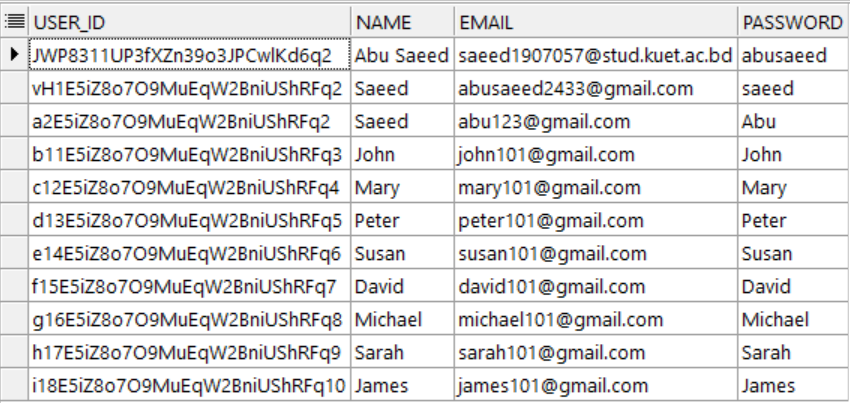
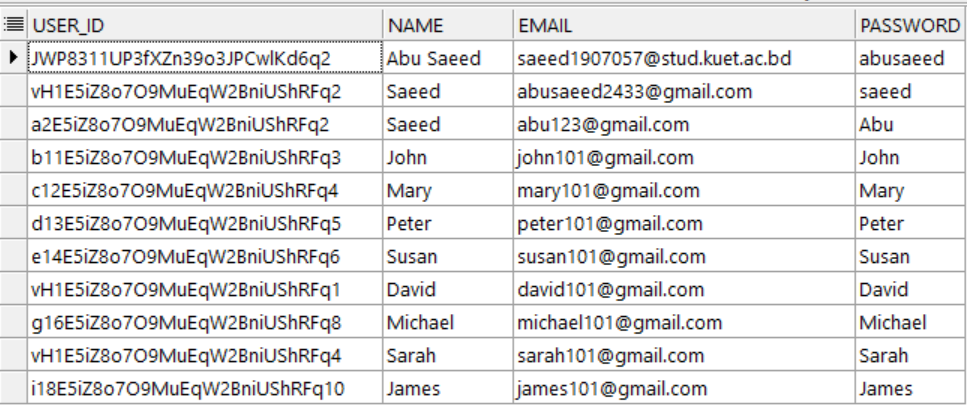
Data updated

diff --git a/README.md b/README.md
@@ -191,10 +191,10 @@ create table notification(
 
     insert into user_table values('d13E5iZ8o7O9MuEqW2BniUShRFq5','Peter','peter101@gmail.com','Peter');
     insert into user_table values('e14E5iZ8o7O9MuEqW2BniUShRFq6','Susan','susan101@gmail.com','Susan');
-    insert into user_table values('f15E5iZ8o7O9MuEqW2BniUShRFq7','David','david101@gmail.com','David');
+    insert into user_table values('vH1E5iZ8o7O9MuEqW2BniUShRFq1','David','david101@gmail.com','David');
         
     insert into user_table values('g16E5iZ8o7O9MuEqW2BniUShRFq8','Michael','michael101@gmail.com','Michael');
-    insert into user_table values('h17E5iZ8o7O9MuEqW2BniUShRFq9','Sarah','sarah101@gmail.com','Sarah');
+    insert into user_table values('vH1E5iZ8o7O9MuEqW2BniUShRFq4','Sarah','sarah101@gmail.com','Sarah');
     insert into user_table values('i18E5iZ8o7O9MuEqW2BniUShRFq10','James','james101@gmail.com','James');
     ```
     - ### Inserting into day_schedule
@@ -263,6 +263,13 @@ create table notification(
 
     INSERT INTO notification VALUES (1685293200000, 'vH1E5iZ8o7O9MuEqW2BniUShRFq2', 'Prepare presentation', '30 Mar at 05:30PM', 1);
     INSERT INTO notification VALUES (1685505600000, 'vH1E5iZ8o7O9MuEqW2BniUShRFq2', 'Client meeting', '31 Mar at 12:20PM', 1);
+
+    ----
+    INSERT INTO notification VALUES (1685505600000, 'vH1E5iZ8o7O9MuEqW2BniUShRFq1', 'Meeting with client', '31 Mar at 12:20PM', 0);
+    INSERT INTO notification VALUES (1685349900000, 'vH1E5iZ8o7O9MuEqW2BniUShRFq1', 'Read two book', '01 Apr at 06:30AM', 0);
+    INSERT INTO notification VALUES (1685696400000, 'vH1E5iZ8o7O9MuEqW2BniUShRFq1', 'Destroy old technology', '01 Apr at 09:30AM', 0);
+
+    INSERT INTO notification VALUES (1685696400000, 'vH1E5iZ8o7O9MuEqW2BniUShRFq4', 'Take a break', '01 Apr at 09:30AM', 0);
     ```
 
 
